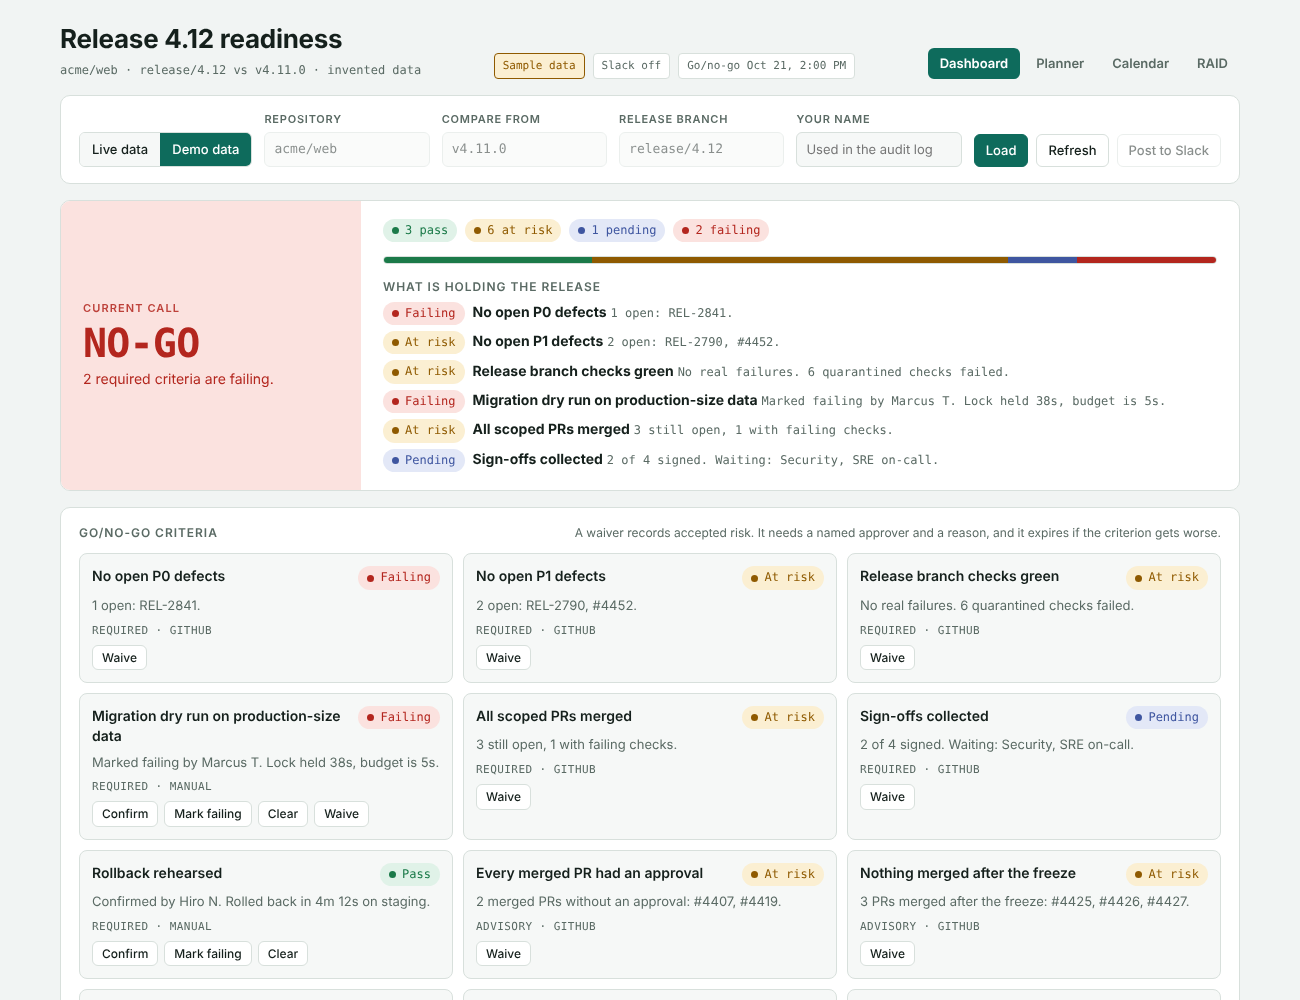
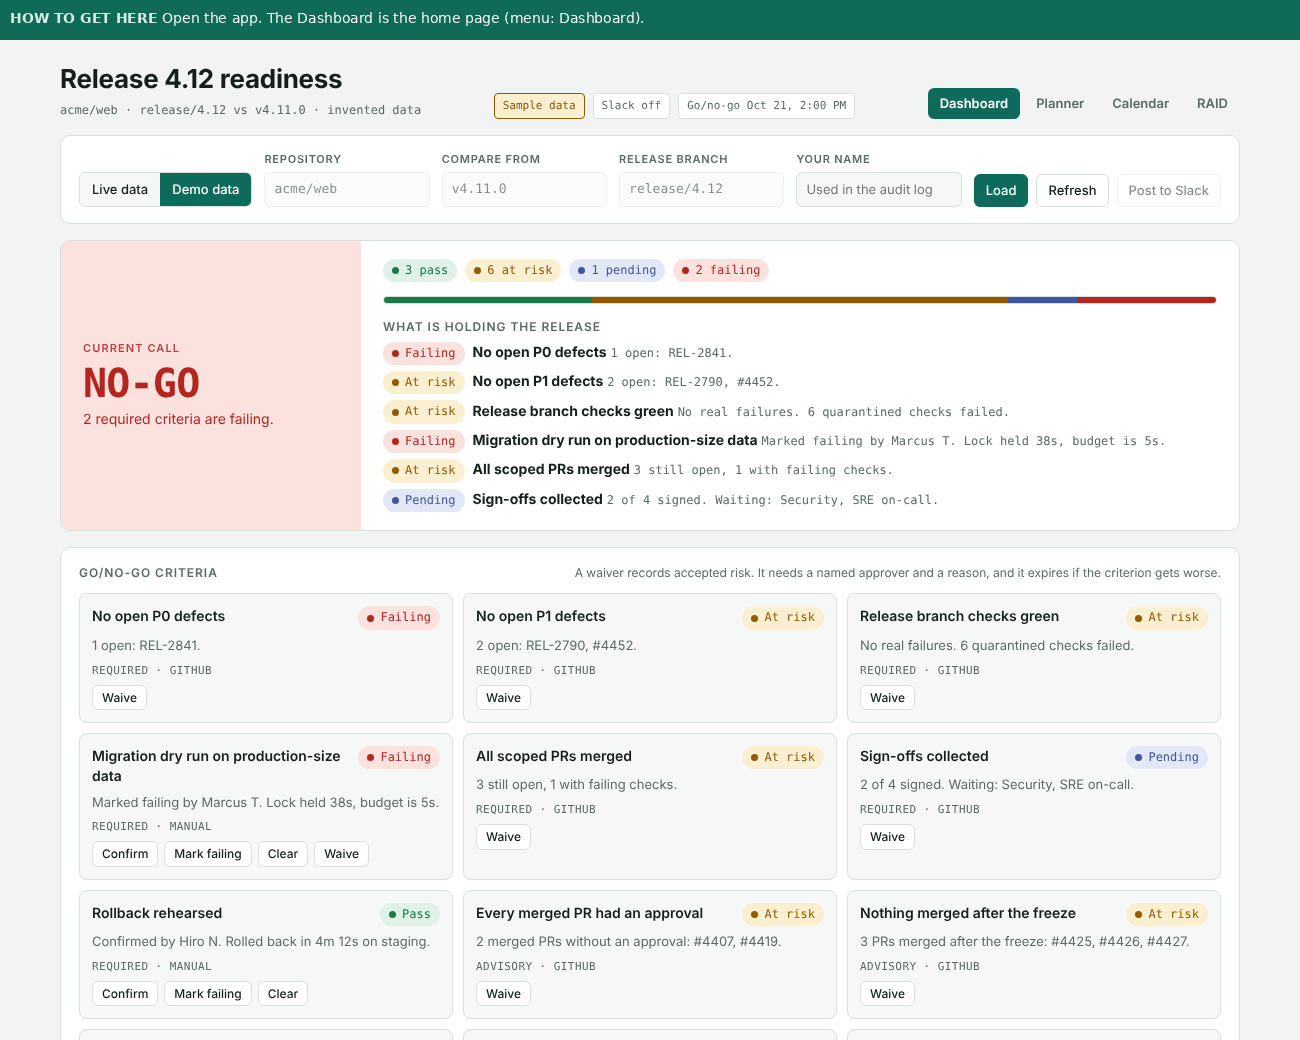
Refresh screenshots and add "how to get here" bars
Every screenshot now has a bar saying which menu to click to reach it
(and, in the team edition, who is signed in and which roles can use it).

Claude-Session: https://claude.ai/code/session_01J6ZpA1dHSDu8WDybSqTXX9

diff --git a/README.md b/README.md
@@ -4,6 +4,8 @@ A go/no-go tool for release managers. It answers one question, "can we ship?", f
 
 ![Dashboard](docs/dashboard.png)
 
+Every screenshot has a green bar on top that says **how to get there** (which menu to click).
+
 ## The problem
 
 Before a release, someone collects status by hand from the issue tracker, CI, the security scanner and a dozen Slack threads, then argues about whether it is safe to ship. The answer is in a spreadsheet nobody trusts and a meeting nobody enjoys. This tool puts that answer in one place, computed from the same rules every time, with the reasons attached.
